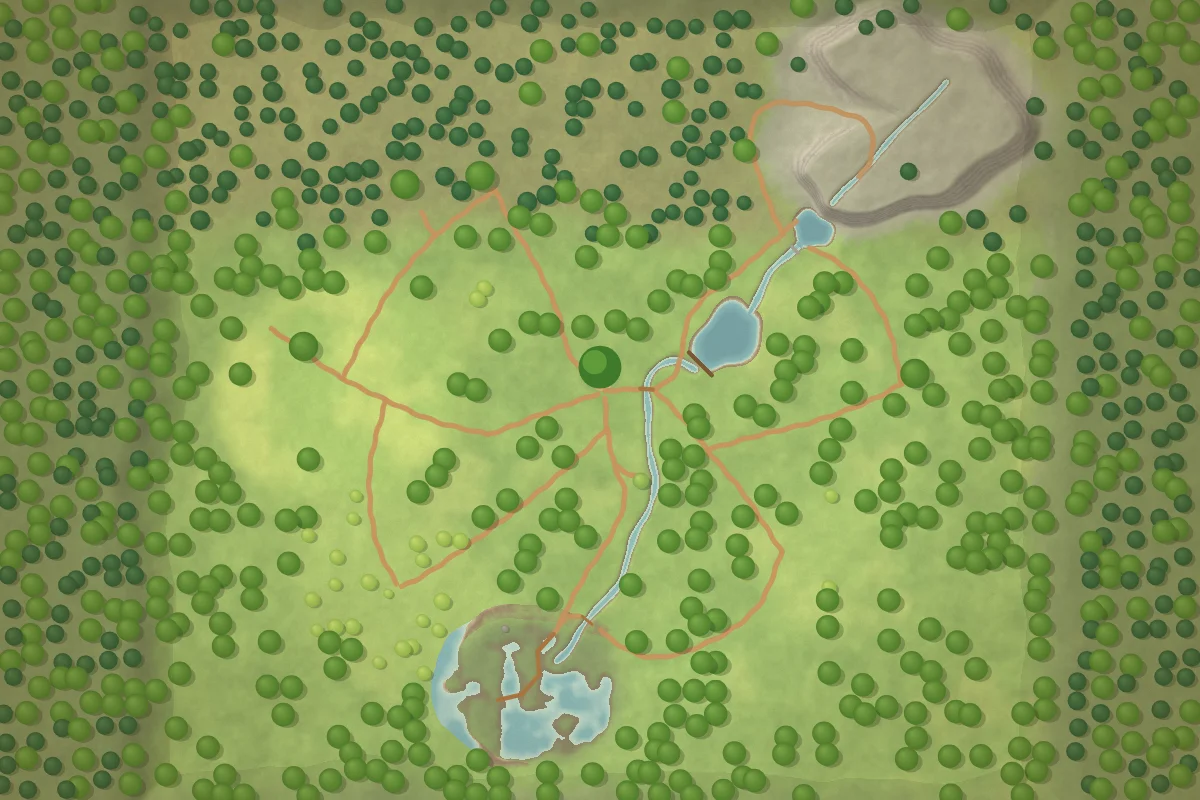
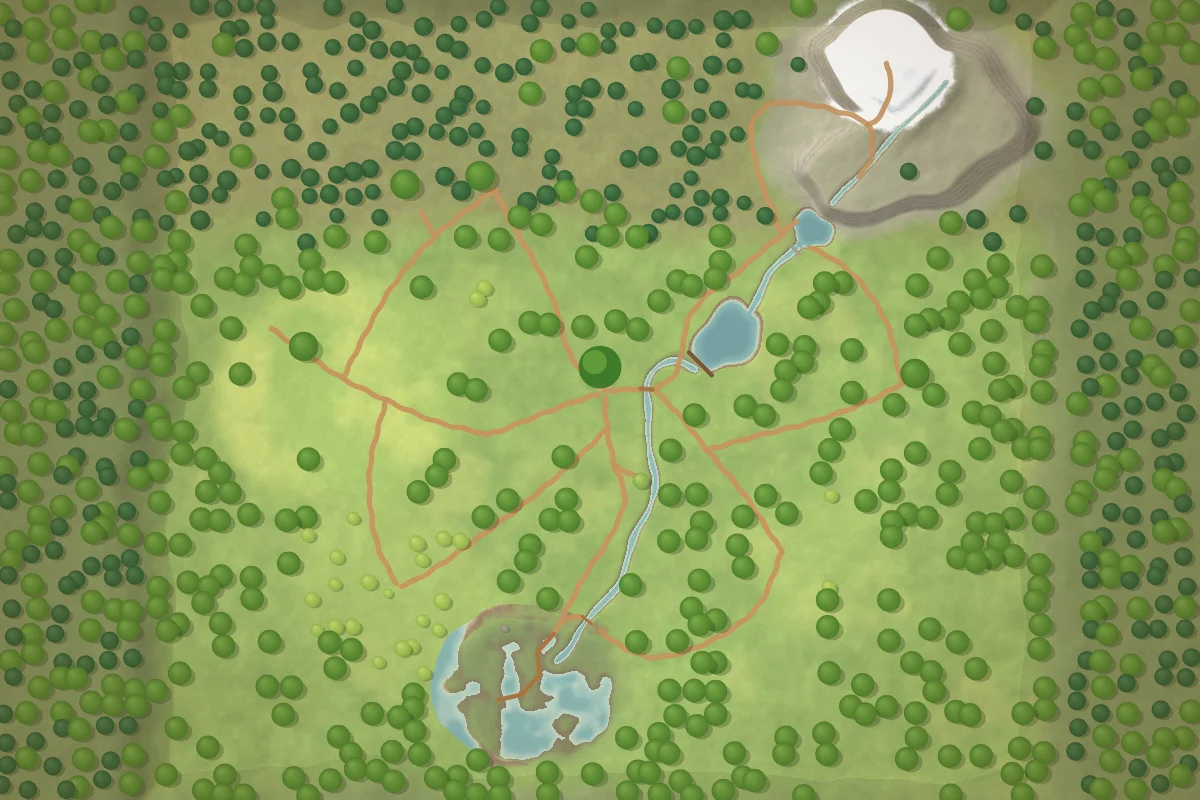
A snow-capped mountain on the Rock, with a summit cross and a snowman (app 9.3.28)
- A peak rises about 13 m out of the Rock's plateau (PEAK in layout.js), snow
  from part-way up, bluish in the hollows; plants and trees keep off the snow,
  only stones lie on it.
- A path climbs from the summit trail to the top; Fuchs can walk there from the
  den. Under the peak the plateau counts as fully risen, which removes small
  ridges near the Rock's centre that would have been too steep to climb.
- On top: a timber summit cross held by a cairn, a tin box for the summit book,
  snow on cross and stones; a snowman with hat, scarf and carrot nose below it.
- On the snow Fuchs' steps crunch and snowflakes fall instead of leaves.
- The far backdrop keeps the snow white in the haze; picture map redrawn.
- The waterfall and the spring are unchanged (the spring now rises higher up).

Claude-Session: https://claude.ai/code/session_01QBFn7VyXCj3ZxenPmL2uJL

diff --git a/js/friends/world/big/tiles.js b/js/friends/world/big/tiles.js
@@ -138,7 +138,7 @@ export function* buildBigTile(world, look, i, j, ring) {
   yield 'grass';
   for (let k = 0, n = Math.round(area * 3.2); k < n; k++) {
     if (k % 40 === 39) yield 'grass';
-    const [x, z] = spot(), s = T.site(x, z), h = s.h; if (!dry(s, -.1 + (R() - .5) * .3)) continue;
+    const [x, z] = spot(), s = T.site(x, z), h = s.h; if (!dry(s, -.1 + (R() - .5) * .3) || T.snow(x, z) > R() * .3) continue;   // no grass on the snow
     T.biome(x, z, bm); if (R() < bm.spruce * .62 + bm.rock * .8 + bm.swamp * .35) continue;
     if (world.blocked(x, z, -.2) || T.onCrossing(x, z)) continue;
     const v = .82 + R() * .3, warm = fbm(x * .05 + 9, z * .05), tall = R() < bm.meadow * .7;
@@ -153,7 +153,7 @@ export function* buildBigTile(world, look, i, j, ring) {
       const [cellUv, tpl, size, lift] = kinds[kind], per = mix.meadow ? 1.7 : .3;
       for (let k = 0, n = Math.round(area * per); k < n; k++) {
         if (k % 40 === 39) yield 'flowers';
-        const [x, z] = spot(), drift = fbm(x * .16 + kind * 7.1, z * .16 - kind * 3.3), s0 = T.site(x, z); if (!dry(s0, .2)) continue; const h = s0.h;
+        const [x, z] = spot(), drift = fbm(x * .16 + kind * 7.1, z * .16 - kind * 3.3), s0 = T.site(x, z); if (!dry(s0, .2) || T.snow(x, z) > .05) continue; const h = s0.h;
         T.biome(x, z, bm); const md = bm.meadow;
         if (drift < lerp(.58, .47, md) || R() > (meadowOnly ? md : lerp(.3 / per, 1, md)) || R() < bm.spruce * .8 + bm.rock * .7 + bm.swamp * .8) continue;
         if (world.blocked(x, z, 0) || T.onCrossing(x, z)) continue;
@@ -164,26 +164,26 @@ export function* buildBigTile(world, look, i, j, ring) {
   }
   yield 'ferns';
   for (let k = 0, n = Math.round(area * (.3 + .35 * mix.spruce)); k < n; k++) {
-    const [x, z] = spot(), s0 = T.site(x, z); if (!dry(s0, .5)) continue; const h = s0.h, nearWater = s0.sd - s0.sw / 2 < 1.6;
+    const [x, z] = spot(), s0 = T.site(x, z); if (!dry(s0, .5) || T.snow(x, z) > .05) continue; const h = s0.h, nearWater = s0.sd - s0.sw / 2 < 1.6;
     T.biome(x, z, bm); if (R() < bm.meadow * .95 + bm.rock * .6) continue;
     if (!(treeGap(x, z) < 3.2 || nearWater || fbm(x * .2, z * .2) > .64) || world.blocked(x, z, .1) || T.onCrossing(x, z)) continue;
     const l = .62 + R() * .12 - bm.spruce * .06, c = tone.setHSL(.25 + bm.spruce * .03, .35, l), sc = .7 + R() * .6;
     foliage.add(t.fern, {x, y: h, z, ry: R() * TAU, sx: sc, sy: sc, sz: sc, cell: ATLAS.fern, up: true, c});
   }
   for (let k = 0, n = Math.round(area * .1); k < n; k++) { // clover off the trails, fallen leaves on them
-    const [x, z] = spot(), s0 = T.site(x, z), onPath = s0.pd < s0.pw / 2 + .1; if (s0.sd - s0.sw / 2 < .4 || s0.still - s0.h > -.05) continue; const h = s0.h;
+    const [x, z] = spot(), s0 = T.site(x, z), onPath = s0.pd < s0.pw / 2 + .1; if (s0.sd - s0.sw / 2 < .4 || s0.still - s0.h > -.05 || T.snow(x, z) > .05) continue; const h = s0.h;
     if (world.blocked(x, z, 0) || T.onCrossing(x, z) || (!onPath && R() < .25)) continue;
     const sc = onPath ? .55 + R() * .5 : .9 + R() * 1.2;
     foliage.add(t.flat, {x, y: h + (onPath ? .035 : .03), z, ry: R() * TAU, sx: sc, sy: 1, sz: sc, cell: onPath ? ATLAS.litter : ATLAS.clover, up: true});
   }
   yield 'shrubs';
   if (mix.rock || mix.meadow) for (let k = 0, n = Math.round(area * .45); k < n; k++) { // heather on the Rock's skirts and here and there in the meadow
-    const [x, z] = spot(); T.biome(x, z, bm); if (R() > bm.rock * .8 + bm.meadow * .05) continue;
+    const [x, z] = spot(); T.biome(x, z, bm); if (R() > bm.rock * .8 + bm.meadow * .05 || bm.snow > .05) continue;
     const s0 = T.site(x, z); if (!dry(s0, .3) || world.blocked(x, z, 0)) continue; const sc = .8 + R() * .7;
     foliage.add(bt.heather, {x, y: s0.h - .03, z, ry: R() * TAU, sx: sc, sy: sc, sz: sc, cell: ATLAS.heather, up: true});
   }
   for (let k = 0, n = Math.round(area * .014); k < n; k++) { // brambles at the wood's edge
-    const [x, z] = spot(); T.biome(x, z, bm); if (bm.swamp > .3 || bm.rock > .5 || bm.glade > .5 || bm.meadow > .8) continue;
+    const [x, z] = spot(); T.biome(x, z, bm); if (bm.swamp > .3 || bm.rock > .5 || bm.glade > .5 || bm.meadow > .8 || bm.snow > .05) continue;
     const s0 = T.site(x, z); if (!dry(s0, 1.4) || s0.sd - s0.sw / 2 < 1.5 || treeGap(x, z) < 1 || world.blocked(x, z, .4) || T.onCrossing(x, z)) continue; const sc = .8 + R() * .5, v = .85 + R() * .2;
     foliage.add(bt.bush, {x, y: s0.h - .05, z, ry: R() * TAU, sx: sc, sy: sc, sz: sc, cell: ATLAS.bush, up: true, c: tone.setRGB(v, v, v)});
   }
@@ -193,7 +193,7 @@ export function* buildBigTile(world, look, i, j, ring) {
       const p = s.samples[k]; if (!inTile(p.x, p.z)) continue;
       if (k % 32 === 0) yield 'brook';
       const Rs = rng(tileSeed(SEED + 2, k, s.N)), tt = k / s.N, w = s.width(k) / 2, q = s.samples[Math.min(s.N, k + 1)], o = s.samples[Math.max(0, k - 1)], dx = q.x - o.x, dz = q.z - o.z, l = Math.hypot(dx, dz) || 1;
-      if (fbm(tt * 30 + s.N, 2) > .55) for (const side of [-1, 1]) { if (Rs() < .45) continue; const off = w + .05 + Rs() * .4, x = p.x - dz / l * off * side, z = p.z + dx / l * off * side; if (T.pathAt(x, z).d < 1.2 || T.onCrossing(x, z) || T.stillDepth(x, z) > .05) continue; const sc = .8 + Rs() * .5; foliage.add(t.reeds, {x, y: T.ground(x, z) - .05, z, ry: Rs() * TAU, sx: sc, sy: sc, sz: sc, cell: ATLAS.reeds, up: true}); }
+      if (fbm(tt * 30 + s.N, 2) > .55 && T.snow(p.x, p.z) < .05) for (const side of [-1, 1]) { if (Rs() < .45) continue; const off = w + .05 + Rs() * .4, x = p.x - dz / l * off * side, z = p.z + dx / l * off * side; if (T.pathAt(x, z).d < 1.2 || T.onCrossing(x, z) || T.stillDepth(x, z) > .05) continue; const sc = .8 + Rs() * .5; foliage.add(t.reeds, {x, y: T.ground(x, z) - .05, z, ry: Rs() * TAU, sx: sc, sy: sc, sz: sc, cell: ATLAS.reeds, up: true}); }
       if (k % 8 === 0 && fbm(tt * 22, 7 + s.N) > .5) { const side = Rs() < .5 ? -1 : 1, off = w + (Rs() - .3) * .6, x = p.x - dz / l * off * side, z = p.z + dx / l * off * side; if (T.pathAt(x, z).d > 1 && !T.onCrossing(x, z)) { const sc = .22 + Rs() * .4; rocks.add(t.rock, {x, y: T.ground(x, z) + .02, z, ry: Rs() * TAU, sx: sc, sy: sc, sz: sc}); } }
       { const off = (Rs() * 2 - 1) * w * .9, x = p.x - dz / l * off, z = p.z + dx / l * off, v = .7 + Rs() * .5, sc = .05 + Rs() * .08; rocks.add(t.pebble, {x, y: T.ground(x, z) + .02, z, ry: Rs() * TAU, sx: sc, sy: sc, sz: sc, c: tone.setRGB(v, v * .95, v * .85)}); }
     }

diff --git a/js/friends/world/big/terrain.js b/js/friends/world/big/terrain.js
@@ -26,13 +26,20 @@ export function createTerrain() {
     const dx = (x - R.x) / R.rx, dz = (z - R.z) / R.rz, th = Math.atan2(dz, dx);
     out.d = (1 + .09 * Math.sin(3 * th + 1.2) + .05 * Math.sin(7 * th + .5) - Math.hypot(dx, dz)) * R.rz; out.th = th; return out;
   }
+  /** How far up the peak a spot is: 0 at its foot and beyond, 1 on the top (a pointed cone with a rounded tip). */
+  const PK = L.PEAK;
+  function peak(x, z) { const d = Math.hypot(x - PK.x, z - PK.z); if (d >= PK.r) return 0; const t = 1 - d / PK.r; return .5 * t * t + .5 * t * t * (3 - 2 * t); }
+  /** Snow: 1 where it lies thick, 0 below the snow line (which wanders a little). */
+  function snow(x, z) { const p = peak(x, z); return p <= 0 ? 0 : sstep(.1, .2, p + (fbm(x * .35 + 11, z * .35 + 4) - .5) * .09 + (fbm(x * 1.4, z * 1.4 + 9) - .5) * .03); }
   const RAMP = 3.22;                                   // the west flank, where a trail climbs to the plateau
   function rockHeight(x, z) {
-    rock(x, z); if (rk.d < -14) return 0;
+    rock(x, z); const pk = peak(x, z) * PK.top; if (rk.d < -14) return pk;
     const cliff = sstep(1.25, .85, angle(rk.th, R.fall)), ramp = sstep(.75, .35, angle(rk.th, RAMP));
-    const body = sstep(0, lerp(lerp(7, 3.4, cliff), 25, ramp), rk.d);
+    // under the peak the plateau counts as fully risen: near the Rock's centre its outline wobbles quickly and
+    // would leave little ridges on the mountain's flank that are too steep to climb
+    const body = lerp(sstep(0, lerp(lerp(7, 3.4, cliff), 25, ramp), rk.d), 1, sstep(2.2, 4.8, pk));
     const scree = sstep(-14, 0, rk.d) * 1.6 * (1 - ramp * .7);
-    return scree + body * R.top + body * ((fbm(x * .09 + 3, z * .09) - .5) * 1.6 + (fbm(x * .3, z * .3 + 8) - .5) * .5);
+    return scree + body * R.top + body * ((fbm(x * .09 + 3, z * .09) - .5) * 1.6 + (fbm(x * .3, z * .3 + 8) - .5) * .5) + pk;
   }
   const meadow = (x, z) => sstep(1.05, .72, Math.hypot((x + 72) / 41, (z + 4) / 37) + (fbm(x * .045 + 11, z * .045 + 3) - .5) * .45);
   const swampMask = (x, z) => sstep(1, .6, Math.hypot((x - S.x) / S.rx, (z - S.z) / S.rz) + (fbm(x * .05 + 20, z * .05) - .5) * .35);
@@ -41,7 +48,7 @@ export function createTerrain() {
   /** How much of each habitat a spot has (0…1 each); the rest is beech wood. */
   function biome(x, z, out = {}) {
     rock(x, z);
-    out.rock = sstep(-10, 0, rk.d); out.meadow = meadow(x, z); out.swamp = swampMask(x, z); out.glade = glade(x, z);
+    out.rock = sstep(-10, 0, rk.d); out.snow = snow(x, z); out.meadow = meadow(x, z); out.swamp = swampMask(x, z); out.glade = glade(x, z);
     out.spruce = sstep(-34, -54, z + (fbm(x * .03 + 7, z * .03 + 2) - .5) * 34) * (1 - out.rock) * (1 - out.meadow);
     out.birch = Math.max(blob(x, z, -58, 54, 30, 5), blob(x, z, -36, -26, 13, 9) * .8, blob(x, z, 60, 44, 20, 3) * .6) * (1 - out.swamp) * (1 - out.meadow * .7);
     return out;
@@ -172,7 +179,8 @@ export function createTerrain() {
   /* ---------- ground colour ---------- */
   const grassA = C('#5f8f2f'), grassB = C('#86ad45'), sunny = C('#a9b856'), mossC = C('#4c7a2a'), edgeC = C('#9b8a4a'), dirt = C('#b77a49'), dirtL = C('#cf9a66'),
     wetC = C('#6a5237'), sand = C('#bba57f'), bed = C('#7c6c50'), meadowA = C('#8db546'), meadowB = C('#b9c95c'), needle = C('#77683c'), birchC = C('#9db84c'),
-    bog = C('#4d6b33'), mud = C('#54452c'), stoneA = C('#8f8b7e'), stoneB = C('#a9a493'), stoneD = C('#6f6b60'), bm = {};
+    bog = C('#4d6b33'), mud = C('#54452c'), stoneA = C('#8f8b7e'), stoneB = C('#a9a493'), stoneD = C('#6f6b60'), bm = {},
+    snowC = new THREE.Color(1.5, 1.56, 1.66), snowShade = new THREE.Color(1.12, 1.24, 1.5), snowPath = new THREE.Color(1.05, 1.03, 1);
   /** Painted ground colour (without the rock that shows on steep ground: see `cliff`). */
   function colour(x, z, out) {
     const s = site(x, z), n = fbm(x * .18, z * .18), n2 = fbm(x * .9 + 4, z * .9), b = biome(x, z, bm);
@@ -188,11 +196,14 @@ export function createTerrain() {
     if (pe < 0) { out.copy(dirt).lerp(dirtL, n2 * .7); if (b.rock > .5) out.lerp(stoneB, .5); }
     if (s.sd < 8) { const be = s.sd - s.sw / 2; if (be < 1.1) out.lerp(wetC, sstep(1.1, .25, be + (n2 - .5) * .3)); if (be < .35) out.lerp(sand, sstep(.35, .05, be) * (.5 + .5 * n2)); if (be < 0) out.copy(bed).lerp(sand, n2 * .5); }
     if (s.still === s.still && b.swamp < .5) { const above = s.h - s.still; if (above < .45) out.lerp(wetC, sstep(.45, .1, above + (n2 - .5) * .2)); if (above < .12) out.lerp(sand, sstep(.12, 0, above) * (.4 + .6 * n2)); if (above < -.05) out.copy(bed).lerp(stoneD, sstep(-.1, -.9, above) * .6); }
+    // snow on the peak: bluish in the hollows, a trodden grey-white on the path
+    if (b.snow > 0) { out.lerp(scratchC.copy(snowC).lerp(snowShade, sstep(.45, .7, fbm(x * .22 + 6, z * .22)) * .6), b.snow); if (pe < 0) out.lerp(snowPath, b.snow * .85); }
     return out;
   }
   /** Rock shows through where the ground is steep; `up` is the normal's y. */
   function cliff(x, z, up, out) {
-    const k = sstep(.9, .66, up + (fbm(x * .7, z * .7) - .5) * .12); if (k <= 0) return out;
+    let k = sstep(.9, .66, up + (fbm(x * .7, z * .7) - .5) * .12); if (k <= 0) return out;
+    const sn = snow(x, z); if (sn > 0) k *= 1 - sn * sstep(.5, .72, up);                // snow stays on all but the steepest rock
     const y = ground(x, z), band = .5 + .5 * Math.sin(y * 2.4 + fbm(x * .25, z * .25) * 5);
     return out.lerp(scratchC.copy(stoneA).lerp(stoneB, band * .7).lerp(stoneD, sstep(.6, .9, fbm(x * 1.3 + 2, z * 1.3)) * .5), k);
   }
@@ -236,6 +247,6 @@ export function createTerrain() {
   /** Water too deep to walk in (streams and pools), unless a crossing carries Fuchs over it. */
   function wet(x, z) { const s = site(x, z); return s.sd - s.sw / 2 < .42 || (s.still === s.still && s.still - s.h > .07); }
 
-  return {extent: E, edge, rock, biome, raw, site, ground, slope, colour, cliff, stillDepth, stillLevel, streamAt, pathAt, streams, pools, poolE, swamp: S, swampMask, trails, plaza,
+  return {extent: E, edge, rock, peak, snow, biome, raw, site, ground, slope, colour, cliff, stillDepth, stillLevel, streamAt, pathAt, streams, pools, poolE, swamp: S, swampMask, trails, plaza,
     crossings, onCrossing, deck, groundY, wet, falls, dam, TAU};
 }

diff --git a/js/friends/world/big/wonders.js b/js/friends/world/big/wonders.js
@@ -1,6 +1,7 @@
 /* Small things to discover beside the paths of the big world: a ring of toadstools, a hollow log, a circle of
    old stones, apple trees, berry bushes, a stone well, lanterns at the den, a stump laid as a table, signposts,
-   a toadstool house, and a picnic place with a fire place (its smoke rises in world/life.js). Each is its own little site (layout.js WONDERS), built in one
+   a toadstool house, a picnic place with a fire place (its smoke rises in world/life.js), and on the peak a
+   summit cross with a snowman. Each is its own little site (layout.js WONDERS), built in one
    short step when Fuchs comes near, from a few hundred triangles on the shared rock, log, bark and soft
    materials; the solid ones have colliders (layout.js SOLIDS) and a small clearing (GLADES). */
 import {THREE} from '../../../scene/materials.js';
@@ -176,6 +177,24 @@ export function wonderSteps(site, look, world, group) {
       for (let k = 0; k < 30; k++) { const c = list[(k * 7) % list.length], dx = c.x - x0, dz = c.z - z0, d = Math.hypot(dx, dz) || 1, red = k % 4 ? [1.3, .13, .08] : [1.35, .62, .12];
         add('soft', new THREE.SphereGeometry(r(.09, .12), 9, 7).scale(1, .92, 1), red, c.x + dx / d * .32, c.y - .28, c.z + dz / d * .32); add('soft', new THREE.CylinderGeometry(.008, .008, .09, 4), [.4, .3, .18], c.x + dx / d * .32, c.y - .14, c.z + dz / d * .32); }
       for (let k = 0; k < 7; k++) { const a = r(0, TAU), d = r(.8, 2.4), x = x0 + Math.cos(a) * d, z = z0 + Math.sin(a) * d; add('rock', new THREE.SphereGeometry(.1, 8, 6), k % 3 ? [1.3, .13, .08] : [1.35, .62, .12], x, ground(x, z) + .08, z); } },
+    // the top of the peak: a timber summit cross held by a cairn, with a tin box for the summit book, and a
+    // snowman someone built a little below it
+    summit() { const timber = [.92, .7, .5], greys = [[.7, .69, .66], [.6, .6, .59], [.78, .76, .72]], cx = x0 + .6, cz = z0 - .6, cy = ground(cx, cz);
+      add('wood', new THREE.BoxGeometry(.17, 2.9, .17), timber, cx, cy + 1.45, cz); add('wood', new THREE.BoxGeometry(1.5, .17, .17), timber, cx, cy + 2.2, cz);
+      for (const sd of [-1, 1]) add('wood', new THREE.BoxGeometry(.06, .06, .9).rotateY(Math.PI / 2).rotateZ(sd * .78), [.6, .45, .32], cx + sd * .3, cy + 1.9, cz + .09);
+      add('rock', new THREE.BoxGeometry(.26, .2, .1), [.5, .52, .56], cx, cy + 1.15, cz + .13); add('rock', new THREE.BoxGeometry(.28, .03, .12).rotateX(.3), [.38, .4, .44], cx, cy + 1.26, cz + .135);
+      for (let k = 0; k < 16; k++) { const a = r(0, TAU), d = Math.sqrt(R()) * .62, h = (1 - d / .62) * .5; add('rock', lump(R, r(.13, .22), 1, .16).scale(1.2, .75, 1), greys[k % 3], cx + Math.cos(a) * d, cy + .08 + h * R(), cz + Math.sin(a) * d); }
+      for (let k = 0; k < 5; k++) add('rock', new THREE.SphereGeometry(r(.1, .18), 8, 5).scale(1.3, .45, 1.1), [1.5, 1.56, 1.66], cx + r(-.5, .5), cy + r(.3, .55), cz + r(-.5, .5));   // snow lying on the cairn
+      add('rock', new THREE.BoxGeometry(1.56, .05, .2), [1.5, 1.56, 1.66], cx, cy + 2.3, cz); add('rock', new THREE.BoxGeometry(.2, .05, .2), [1.5, 1.56, 1.66], cx, cy + 2.92, cz);       // and on the cross
+      const [sx, sz] = site.snowman, sy = ground(sx, sz), white = [1.5, 1.56, 1.66], coal = [.1, .1, .11];
+      add('rock', new THREE.SphereGeometry(.42, 16, 12).scale(1, .92, 1), white, sx, sy + .34, sz); add('rock', new THREE.SphereGeometry(.31, 16, 12), white, sx, sy + .92, sz); add('rock', new THREE.SphereGeometry(.22, 14, 10), white, sx, sy + 1.36, sz);
+      add('rock', new THREE.ConeGeometry(.04, .2, 8).rotateX(Math.PI / 2), [1.5, .6, .12], sx, sy + 1.36, sz + .3);
+      for (const e of [-1, 1]) add('rock', new THREE.SphereGeometry(.028, 6, 5), coal, sx + e * .08, sy + 1.43, sz + .2);
+      for (let k = -2; k <= 2; k++) add('rock', new THREE.SphereGeometry(.018, 5, 4), coal, sx + k * .04, sy + 1.29 - Math.abs(k) * -.012, sz + .205 - Math.abs(k) * .006);
+      for (let k = 0; k < 3; k++) add('rock', new THREE.SphereGeometry(.03, 6, 5), coal, sx, sy + .82 + k * .13, sz + .3 - (k === 1 ? 0 : .02));
+      for (const e of [-1, 1]) { add('wood', new THREE.CylinderGeometry(.014, .02, .55, 5).rotateZ(e * -1.05), [.5, .36, .24], sx + e * .5, sy + 1.03, sz); add('wood', new THREE.CylinderGeometry(.01, .012, .16, 4).rotateZ(e * -.2), [.5, .36, .24], sx + e * .66, sy + 1.2, sz); }
+      add('rock', new THREE.CylinderGeometry(.26, .26, .03, 14), [.16, .15, .17], sx, sy + 1.55, sz); add('rock', new THREE.CylinderGeometry(.16, .17, .26, 14), [.16, .15, .17], sx, sy + 1.69, sz); add('rock', new THREE.CylinderGeometry(.172, .172, .05, 14), [1.2, .2, .16], sx, sy + 1.6, sz);
+      add('rock', new THREE.TorusGeometry(.2, .05, 6, 14).rotateX(Math.PI / 2), [1.25, .22, .18], sx, sy + 1.17, sz); add('rock', new THREE.BoxGeometry(.09, .34, .04).rotateZ(.2), [1.25, .22, .18], sx + .14, sy + 1.02, sz + .2); },
     sign() { add('wood', new THREE.CylinderGeometry(.06, .085, 1.9, 7), [.85, .66, .5], x0, y0 + .95, z0);
       site.arms.forEach((a, k) => { const sh = new THREE.Shape(); sh.moveTo(0, -.1); sh.lineTo(.62, -.1); sh.lineTo(.8, 0); sh.lineTo(.62, .1); sh.lineTo(0, .1); sh.closePath();
         add('wood', new THREE.ExtrudeGeometry(sh, {depth: .045, bevelEnabled: false}).translate(.02, 0, -.022).rotateY(-a), [1.25, 1, .72], x0, y0 + 1.68 - k * .27, z0); });

diff --git a/js/friends/world/life.js b/js/friends/world/life.js
@@ -18,15 +18,15 @@ export function createLife({scene, canvasTex, groundY, walkable, terrain, random
   const LEAVES = 46, leafTex = canvasTex(64, 64, g => { g.translate(32, 32); g.rotate(-.6); g.fillStyle = '#fff'; g.beginPath(); g.moveTo(0, -27); g.bezierCurveTo(21, -15, 19, 14, 0, 27); g.bezierCurveTo(-19, 14, -21, -15, 0, -27); g.fill(); g.strokeStyle = 'rgba(0,0,0,.28)'; g.lineWidth = 2.2; g.beginPath(); g.moveTo(0, -24); g.lineTo(0, 25); g.stroke(); });
   const seeds = new Float32Array(LEAVES * 4); for (let i = 0; i < seeds.length; i++) seeds[i] = random();
   const leaves = new THREE.Points(new THREE.BufferGeometry().setAttribute('position', new THREE.Float32BufferAttribute(new Float32Array(LEAVES * 3), 3)).setAttribute('aSeed', new THREE.BufferAttribute(seeds, 4)),
-    new THREE.ShaderMaterial({uniforms: {uMap: {value: leafTex}, uTime: {value: 0}, uScale: {value: 600}, uCentre: {value: new THREE.Vector3()}, uAmount: {value: 0}},
-      vertexShader: `attribute vec4 aSeed;uniform float uTime,uScale,uAmount;uniform vec3 uCentre;varying float vShow,vTurn,vTint;
+    new THREE.ShaderMaterial({uniforms: {uMap: {value: leafTex}, uTime: {value: 0}, uScale: {value: 600}, uCentre: {value: new THREE.Vector3()}, uAmount: {value: 0}, uSnow: {value: 0}},
+      vertexShader: `attribute vec4 aSeed;uniform float uTime,uScale,uAmount,uSnow;uniform vec3 uCentre;varying float vShow,vTurn,vTint;
         void main(){const float H=8.5,S=30.;vec3 p;p.xz=uCentre.xz+mod(aSeed.xz*S-uCentre.xz+S*.5,S)-S*.5;
           float fall=mod(aSeed.y*H+uTime*(.5+.45*aSeed.w),H);p.y=uCentre.y+H-fall;
           p.x+=sin(uTime*(.8+aSeed.w)+aSeed.x*40.)*.7*(.25+fall/H);p.z+=cos(uTime*.65+aSeed.z*40.)*.45;
           vShow=smoothstep(0.,.8,fall)*smoothstep(H,H-.5,fall)*step(fract(aSeed.w*7.13),uAmount);vTurn=uTime*(1.2+2.2*aSeed.w)+aSeed.x*6.28;vTint=aSeed.z;
-          vec4 mv=modelViewMatrix*vec4(p,1.);gl_PointSize=min(.34*uScale/-mv.z,44.);gl_Position=projectionMatrix*mv;}`,
-      fragmentShader: `uniform sampler2D uMap;varying float vShow,vTurn,vTint;
-        void main(){if(vShow<.5)discard;vec2 c=gl_PointCoord-.5;float s=sin(vTurn),k=cos(vTurn);c=vec2(c.x*k-c.y*s,c.x*s+c.y*k);c.y/=max(.3,abs(cos(vTurn*.6)));vec2 uv=c+.5;
+          vec4 mv=modelViewMatrix*vec4(p,1.);gl_PointSize=min(.34*uScale/-mv.z,44.)*mix(1.,.36,step(.5,uSnow));gl_Position=projectionMatrix*mv;}`,
+      fragmentShader: `uniform sampler2D uMap;uniform float uSnow;varying float vShow,vTurn,vTint;
+        void main(){if(vShow<.5)discard;if(uSnow>.5){if(length(gl_PointCoord-.5)>.42)discard;gl_FragColor=vec4(1.);return;}vec2 c=gl_PointCoord-.5;float s=sin(vTurn),k=cos(vTurn);c=vec2(c.x*k-c.y*s,c.x*s+c.y*k);c.y/=max(.3,abs(cos(vTurn*.6)));vec2 uv=c+.5;
           if(uv.x<0.||uv.x>1.||uv.y<0.||uv.y>1.)discard;vec4 t=texture2D(uMap,uv);if(t.a<.5)discard;
           vec3 col=vTint<.45?mix(vec3(.2,.42,.07),vec3(.36,.56,.1),vTint*2.2):vTint<.8?vec3(.72,.56,.08):vec3(.66,.3,.06);
           gl_FragColor=vec4(col*t.rgb*(.82+.3*abs(cos(vTurn*.6))),1.);
@@ -120,11 +120,11 @@ export function createLife({scene, canvasTex, groundY, walkable, terrain, random
       quad.forEach((q, i) => { v3.set(q[0] * f[2], q[1] * 22, 0).applyMatrix4(turn); beamPos.set([v3.x + f[0], v3.y + y, v3.z + f[1]], b * 18 + i * 3); }); }
     beams.geometry.attributes.position.needsUpdate = true; }
 
-  function update(dt, time, pos, {reduced = false, trees = 1, meadow = 0, height = 800, fov = 42} = {}) {
+  function update(dt, time, pos, {reduced = false, snow = 0, trees = 1, meadow = 0, height = 800, fov = 42} = {}) {
     const gy = groundY(pos.x, pos.z);
     if (last) { const dx = pos.x - last.x, dz = pos.z - last.z; if (dx * dx + dz * dz > 1e-5) heading = Math.atan2(dx, dz); } last = {x: pos.x, z: pos.z};
     // leaves
-    const u = leaves.material.uniforms; if (!reduced) u.uTime.value = time; u.uCentre.value.set(pos.x, gy, pos.z); u.uAmount.value += (Math.min(1, trees * 1.1) - u.uAmount.value) * Math.min(1, dt * .5); u.uScale.value = height / (2 * Math.tan(THREE.MathUtils.degToRad(fov / 2)));
+    const u = leaves.material.uniforms; if (!reduced) u.uTime.value = time; u.uCentre.value.set(pos.x, gy, pos.z); u.uSnow.value = snow > .5 ? 1 : 0; u.uAmount.value += (Math.min(1, Math.max(trees * 1.1, snow)) - u.uAmount.value) * Math.min(1, dt * .5);   // on the peak the leaves are snowflakes u.uScale.value = height / (2 * Math.tan(THREE.MathUtils.degToRad(fov / 2)));
     // butterflies: any that Fuchs has left behind settle somewhere new near him
     for (const b of butterflies) {
       if (!b.placed || Math.hypot(b.hx - pos.x, b.hz - pos.z) > 24) { const p = spotNear(pos, heading, b.placed ? 12 : 3, b.placed ? 18 : 12, () => true); b.hx = b.x = p[0]; b.hz = b.z = p[1]; b.placed = true; fit(b.s); }

diff --git a/js/friends/forest3d.js b/js/friends/forest3d.js
@@ -7,7 +7,7 @@ import {characters} from './characters3d.js';
 import {createWorld} from './world/index.js';
 import {createLook, foxView, canvasTex} from './world/textures.js';
 import {createStreamer, NEAR} from './world/streamer.js';
-import {TAU, rng} from './world/noise.js';
+import {TAU, rng, lerp} from './world/noise.js';
 import {createLife} from './world/life.js';
 
 const WORLD = createWorld();
@@ -53,7 +53,7 @@ export function createForest({renderer, software, onPosition, onAction, onMove, 
     const T = WORLD.terrain, E = WORLD.extent, G = 8, M = 40, nx = (E.x1 - E.x0 + 2 * M) / G, nz = (E.z1 - E.z0 + 2 * M) / G, pos = [], col = [], idx = [], bm = {};
     for (let j = 0; j <= nz; j++) for (let i = 0; i <= nx; i++) {
       const x = E.x0 - M + i * G, z = E.z0 - M + j * G, b = T.biome(x, z, bm), wood = (1 - b.meadow) * (1 - b.swamp) * (1 - b.rock) * (1 - b.glade), h = T.ground(x, z) + wood * (b.spruce > .5 ? 9 : 7);
-      const shade = .93 - wood * .07 + b.rock * .02 + Math.min(.05, h * .004) + ((i * 7 + j * 13) % 5) * .004; pos.push(x, h, z); col.push(shade * .97, shade, shade * (1 + b.rock * .04 - wood * .03));
+      const shade = .93 - wood * .07 + b.rock * .02 + Math.min(.05, h * .004) + ((i * 7 + j * 13) % 5) * .004; const sn = b.snow; pos.push(x, h, z); col.push(lerp(shade * .97, 1.16, sn), lerp(shade, 1.17, sn), lerp(shade * (1 + b.rock * .04 - wood * .03), 1.32, sn));
     }
     for (let j = 0; j < nz; j++) for (let i = 0; i < nx; i++) { const a = j * (nx + 1) + i, b = a + 1, c = a + nx + 1, d = c + 1; idx.push(a, c, b, b, c, d); }   // north first: the camera looks north
     const g = new THREE.BufferGeometry(); g.setAttribute('position', new THREE.Float32BufferAttribute(pos, 3)); g.setAttribute('color', new THREE.Float32BufferAttribute(col, 3)); g.setIndex(idx);
@@ -187,8 +187,8 @@ export function createForest({renderer, software, onPosition, onAction, onMove, 
   const sound = {at: -1, moving: false, speed: 0, ground: 'grass', trees: 1, meadow: 0, swamp: 0, spruce: 0, brook: 0, falls: 0, fallsPan: 0}, soundBiome = {};
   function listen() {
     const T = WORLD.terrain, b = T.biome(pos.x, pos.z, soundBiome), c = T.onCrossing(pos.x, pos.z), pa = T.pathAt(pos.x, pos.z);
-    sound.ground = c ? (c.c.kind === 'dam' ? 'sticks' : 'wood') : b.rock > .6 ? 'rock' : b.swamp > .5 ? 'wet' : pa.d < pa.w / 2 + .15 ? 'earth' : b.meadow > .5 ? 'meadow' : b.spruce > .5 ? 'needles' : 'grass';
-    sound.trees = (1 - b.meadow) * (1 - b.swamp * .6) * (1 - b.rock * .7); sound.meadow = b.meadow; sound.swamp = b.swamp; sound.spruce = b.spruce;
+    sound.ground = c ? (c.c.kind === 'dam' ? 'sticks' : 'wood') : b.snow > .5 ? 'snow' : b.rock > .6 ? 'rock' : b.swamp > .5 ? 'wet' : pa.d < pa.w / 2 + .15 ? 'earth' : b.meadow > .5 ? 'meadow' : b.spruce > .5 ? 'needles' : 'grass';
+    sound.trees = (1 - b.meadow) * (1 - b.swamp * .6) * (1 - b.rock * .7) * (1 - b.snow); sound.snow = b.snow; sound.meadow = b.meadow; sound.swamp = b.swamp; sound.spruce = b.spruce;
     let near = Infinity; for (const s of T.streams) for (let i = 0; i <= s.N; i += 6) { const q = s.samples[i], d = (q.x - pos.x) ** 2 + (q.z - pos.z) ** 2; if (d < near) near = d; }
     sound.brook = THREE.MathUtils.clamp(1 - (Math.sqrt(near) - 1.2) / 13, 0, 1);
     const fx = T.falls.base[0] - pos.x, fz = T.falls.base[1] - pos.z; sound.falls = THREE.MathUtils.clamp(1 - (Math.hypot(fx, fz) - 5) / 42, 0, 1); sound.fallsPan = THREE.MathUtils.clamp(fx / 22, -1, 1);
@@ -228,7 +228,7 @@ export function createForest({renderer, software, onPosition, onAction, onMove, 
     animatedCount = animated;
     if (moving && !reduced && time - lastPuff > .17) { lastPuff = time; const p = puffs.find(q => q.life <= 0); if (p) { p.life = .55; p.s.visible = true; p.s.position.set(pos.x + (R() - .5) * .3, base + .12, pos.z + .15); } }
     for (const p of puffs) if (p.life > 0) { p.life -= dt; const k = 1 - p.life / .55; size(p.s, .25 + k * .45); p.s.material.opacity = .5 * (1 - k); p.s.position.y += dt * .25; if (p.life <= 0) p.s.visible = false; }
-    life.update(dt, time, pos, {reduced, trees: sound.trees, meadow: sound.meadow, height, fov: camera.fov});
+    life.update(dt, time, pos, {reduced, snow: sound.snow || 0, trees: sound.trees, meadow: sound.meadow, height, fov: camera.fov});
     const halos = streamer.landmarks.home?.halos; if (halos) halos.material.opacity = reduced ? .55 : .5 + Math.sin(time * 7) * .06;
     shaftMat.opacity = reduced ? .15 : .14 + Math.sin(time * .35) * .04;
     if (!reduced) { if (look.M.water) look.M.water.uniforms.uTime.value += dt; motes.position.set(pos.x, Math.sin(time * .35) * .3, pos.z); motes.rotation.y = time * .01; } else motes.position.set(pos.x, 0, pos.z);

diff --git a/js/friends/world/big/layout.js b/js/friends/world/big/layout.js
@@ -9,6 +9,9 @@ export const DEN = {x: 0, z: -8};
 /* The Rock: an elliptical massif with a plateau. `fall` is the direction (from its centre) in
    which the waterfall drops. */
 export const ROCK = {x: 84, z: -80, rx: 36, rz: 30, top: 11.5, fall: 2.135};
+/* The peak that rises out of the Rock's plateau north of the summit trail: its top, how high it stands above the
+   plateau and how wide its foot is. Snow lies on it from about two metres up. Gentle enough to walk to the top. */
+export const PEAK = {x: 80, z: -95, top: 13, r: 27};
 
 /* Still water. `plunge` and `pond` are carved bowls; the swamp is a basin whose hollows fill. */
 export const POOLS = [
@@ -40,6 +43,7 @@ export const TRAILS = [
   {id: 'east', pts: [[1.5, -2.6], [6, -2.8], [10.9, -3]], w: .9},
   {id: 'beaver', pts: [[15.1, -3], [18.6, -5], [21.5, -8.2], [22.6, -12], [23.2, -15.5]], w: .85},
   {id: 'falls', pts: [[23.2, -15.5], [24.5, -22], [29.5, -29], [37, -34.5], [44.5, -41], [51, -46.5], [55, -50]], w: .8},
+  {id: 'peak', pts: [[75, -77], [78.6, -79.6], [80.2, -83.6], [81.6, -87.6], [80.9, -91.4], [80.2, -94.2]], w: .6},
   {id: 'summit', pts: [[51, -46.5], [47, -56], [43.5, -67], [42.5, -77], [47, -82.5], [56, -83], [66, -81], [75, -77], [76, -68], [72.5, -62.5]], w: .75},
   {id: 'north', pts: [[-1.2, -4.4], [-5, -8], [-9, -14], [-12, -25], [-18, -38], [-25, -50], [-29.5, -59]], w: .9},
   {id: 'west', pts: [[-.6, -1.6], [-8, .8], [-18, 4.6], [-28, 8.6], [-31.5, 9.6]], w: .9},
@@ -119,7 +123,7 @@ export const TREES = [
 /* Big rocks [x, z, size, height] (colliders). */
 export const ROCKS = [[-5.2, -4.2, 1.05, 1.6], [-2, 9, .65, .9], [9.6, 1.2, .6, .8], [57.6, -54.4, 1.5, 1.7], [66.4, -47.6, 1.2, 1.3], [-70, 8, .9, 1], [50.5, 48.4, .8, .9]];
 /* Further colliders [x, z, radius]: the den tree, the stump, the lodge, the beaver's stack of poles, the badger's sett. */
-export const SOLIDS = [[0, -8, 3.05], [-33.4, 11.2, .95], [37.5, -18.6, 2.3], [20.8, -16.9, .6], [-53.4, -58.3, 2.1], [50.75, 13.18, 0.82], [51.58, 12.73, 0.82], [52.42, 12.27, 0.82], [53.25, 11.82, 0.82], [-67.61, 22.74, 0.5], [-69.45, 24.44, 0.5], [-71.83, 23.7, 0.5], [-72.39, 21.26, 0.5], [-70.55, 19.56, 0.5], [-68.17, 20.3, 0.5], [-17, 10, 0.42], [-22, 31.5, 0.75], [-34, 36, 0.75], [38, 29, 0.75], [6.2, 9.5, 1], [5, -1.4, .15], [-5, 1.8, .15], [3.6, 6, .15], [27, 17.5, 1], [-8.6, 41.3, .95], [-7.4, 41.7, .95], [-4.6, 42.3, .85], [-2.9, 41.2, .45], [31.4, 12, .16], [-30.5, 12.3, .16], [-12.5, -33.5, .85], [2.5, 30.5, .42], [41, 22, .42]];
+export const SOLIDS = [[0, -8, 3.05], [-33.4, 11.2, .95], [37.5, -18.6, 2.3], [20.8, -16.9, .6], [-53.4, -58.3, 2.1], [50.75, 13.18, 0.82], [51.58, 12.73, 0.82], [52.42, 12.27, 0.82], [53.25, 11.82, 0.82], [-67.61, 22.74, 0.5], [-69.45, 24.44, 0.5], [-71.83, 23.7, 0.5], [-72.39, 21.26, 0.5], [-70.55, 19.56, 0.5], [-68.17, 20.3, 0.5], [-17, 10, 0.42], [-22, 31.5, 0.75], [-34, 36, 0.75], [38, 29, 0.75], [6.2, 9.5, 1], [5, -1.4, .15], [-5, 1.8, .15], [3.6, 6, .15], [27, 17.5, 1], [-8.6, 41.3, .95], [-7.4, 41.7, .95], [-4.6, 42.3, .85], [-2.9, 41.2, .45], [31.4, 12, .16], [-30.5, 12.3, .16], [-12.5, -33.5, .85], [2.5, 30.5, .42], [41, 22, .42], [80.6, -95.6, .3], [84.6, -91.6, .5]];
 
 /* What Biber felled for his dam: gnawed stumps [x, z, radius] and trunks lying beside some of them
    [x, z, radius, yaw, length] (colliders; built with the pond site). */
@@ -146,6 +150,7 @@ export const WONDERS = [
   {id: 'wonder-10', kind: 'picnic', x: -8, z: 41.5, yaw: .25, r: 26, fire: [-4.6, 42.3]},
   {id: 'wonder-11', kind: 'sign', x: 31.4, z: 12, r: 22, arms: [-.35, 2.5, .95]},
   {id: 'wonder-12', kind: 'sign', x: -30.5, z: 12.3, r: 22, arms: [3.0, -.3, 2.1]},
+  {id: 'wonder-16', kind: 'summit', x: 80, z: -95, r: 34, snowman: [84.6, -91.6]},
   {id: 'wonder-13', kind: 'fairyhouse', x: -12.5, z: -33.5, yaw: -.5, r: 24},
   {id: 'wonder-14', kind: 'apple', x: 2.5, z: 30.5, r: 24},
   {id: 'wonder-15', kind: 'apple', x: 41, z: 22, r: 24},

diff --git a/js/friends/audio.js b/js/friends/audio.js
@@ -79,6 +79,7 @@ export function footstep(ctx, out, noise, ground, t, level = 1) {
   else if (ground === 'earth') { hiss(ctx, out, noise, {t, dur: .06, gain: .17 * v, type: 'lowpass', f: 1300 * w}); hiss(ctx, out, noise, {t: t + .01, dur: .02, gain: .05 * v, f: 3200, q: 1}); thump(180, .035); }
   else if (ground === 'rock') { hiss(ctx, out, noise, {t, dur: .03, gain: .28 * v, f: 2100 * w, q: 2}); thump(240, .015, .03); }
   else if (ground === 'wet') { hiss(ctx, out, noise, {t, dur: .12, gain: .2 * v, type: 'lowpass', f: 1250 * w, f1: 450, attack: .012}); tone(ctx, out, {t: t + .05, dur: .05, f: 420 * w, f1: 760 * w, gain: .02 * v, attack: .006}); }
+  else if (ground === 'snow') { hiss(ctx, out, noise, {t, dur: .11, gain: .2 * v, type: 'lowpass', f: 2100 * w, f1: 900, attack: .012}); hiss(ctx, out, noise, {t: t + .035, dur: .05, gain: .09 * v, f: 3400 * w, q: 1.2, attack: .008}); }   // a soft crunch
   else if (ground === 'meadow') { hiss(ctx, out, noise, {t, dur: .12, gain: .17 * v, f: 3100 * w, q: .6, attack: .02}); thump(190, .012); }
   else if (ground === 'needles') { hiss(ctx, out, noise, {t, dur: .085, gain: .2 * v, f: 1400 * w, q: .7, attack: .008}); thump(185, .02); }
   else { hiss(ctx, out, noise, {t, dur: .075, gain: .2 * v, f: 2400 * w, q: .8, attack: .006}); thump(195, .016); }   // grass

diff --git a/tests/audio-preview.html b/tests/audio-preview.html
@@ -16,7 +16,7 @@ window.FK = {on: () => () => {}, forestVoice: {cancel() {}}};
 const {createAudio, voices, footstep, details, makeNoise} = await import('../js/friends/audio.js');
 const SCENES = {Wald: {trees: .9, spruce: .1}, Fichtenwald: {trees: 1, spruce: 1}, Wiese: {trees: .05, meadow: 1}, Sumpf: {trees: .3, swamp: 1}, 'Am Bach': {trees: .7, brook: .9}, Wasserfall: {trees: .4, falls: .9, brook: .5, fallsPan: .3}, 'Im Bau': null};
 const NAMES = {blackbird: 'Amsel', chaffinch: 'Buchfink', greatTit: 'Kohlmeise', blueTit: 'Blaumeise', dove: 'Ringeltaube', cuckoo: 'Kuckuck', woodpecker: 'Specht', frog: 'Frosch', cricket: 'Grille', bee: 'Biene'};
-const GROUNDS = {grass: 'Gras', needles: 'Nadeln', earth: 'Weg', meadow: 'Wiese', wood: 'Steg', sticks: 'Damm', rock: 'Fels', wet: 'Sumpf'};
+const GROUNDS = {grass: 'Gras', needles: 'Nadeln', earth: 'Weg', meadow: 'Wiese', wood: 'Steg', sticks: 'Damm', rock: 'Fels', wet: 'Sumpf', snow: 'Schnee'};
 const $ = id => document.getElementById(id), q = new URLSearchParams(location.search);
 let scene = q.get('scene') || 'Wald', walking = q.has('walk'), ground = q.get('ground') || 'grass', settings = {ambience: true};
 const audio = createAudio(() => settings, () => ({...SCENES[scene], moving: walking, speed: 2.6, ground})); window.audio = audio;

diff --git a/js/friends/world/big/index.js b/js/friends/world/big/index.js
@@ -33,7 +33,7 @@ export function createBigWorld() {
     t = null;
     if (x > E.x0 + 1 && x < E.x1 - 1 && z > E.z0 + 1 && z < E.z1 - 1) {
       const b = T.biome(x, z, bm), rim = sstep(12, 4, T.edge(x, z));
-      let p = .36 + .26 * b.spruce + .14 * b.birch; p *= (1 - .97 * b.meadow) * (1 - .78 * b.swamp) * (1 - .88 * b.rock); p = Math.max(p, rim * .72); if (b.glade > .3) p = 0;
+      let p = .36 + .26 * b.spruce + .14 * b.birch; p *= (1 - .97 * b.meadow) * (1 - .78 * b.swamp) * (1 - .88 * b.rock); p = Math.max(p, rim * .72); if (b.glade > .3 || T.peak(x, z) > .06) p = 0;   // no trees on the peak
       if (pick < p && !keepClear.some(([kx, kz, kr]) => Math.hypot(x - kx, z - kz) < kr)) {
         const st = T.streamAt(x, z), nearWater = st.d < st.w / 2 + 2.5 || T.stillDepth(x, z) > -.3, pa = T.pathAt(x, z);
         if (!nearWater && pa.d > pa.w / 2 + 1.9 && T.slope(x, z) < .8 && !T.onCrossing(x, z)) {

diff --git a/sw.js b/sw.js
@@ -1,5 +1,5 @@
 /* Farbtupf – Service Worker: keeps the whole app on the device so it runs without internet. */
-const CACHE = 'farbtupf-v9.3.27-waldpost';
+const CACHE = 'farbtupf-v9.3.28-waldpost';
 const SCOPE=self.registration.scope;
 const INDEX=new URL('index.html',SCOPE).href;
 const ACTIVE_MARKER=new URL('.farbtupf-active-cache',SCOPE).href;

diff --git a/js/core/util.js b/js/core/util.js
@@ -4,7 +4,7 @@
   const FK = (window.FK = window.FK || {});
 
   FK.APP_NAME = 'Waldpost';
-  FK.VERSION = '9.3.27';
+  FK.VERSION = '9.3.28';
   FK.TAU = Math.PI * 2;
   FK.$ = (sel, root) => (root || document).querySelector(sel);
   FK.$$ = (sel, root) => Array.prototype.slice.call((root || document).querySelectorAll(sel));

diff --git a/js/friends/puzzle-implementation.js b/js/friends/puzzle-implementation.js
@@ -1,2 +1,2 @@
 /* Generated by node tools/puzzle-catalogue.cjs; do not edit. */
[2 lines of base64/hex data omitted]
